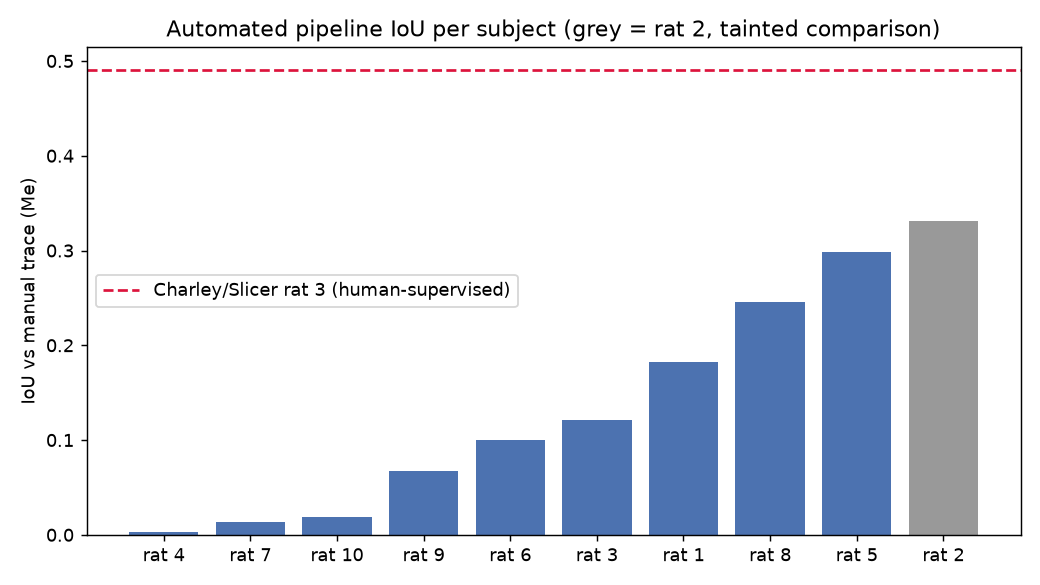
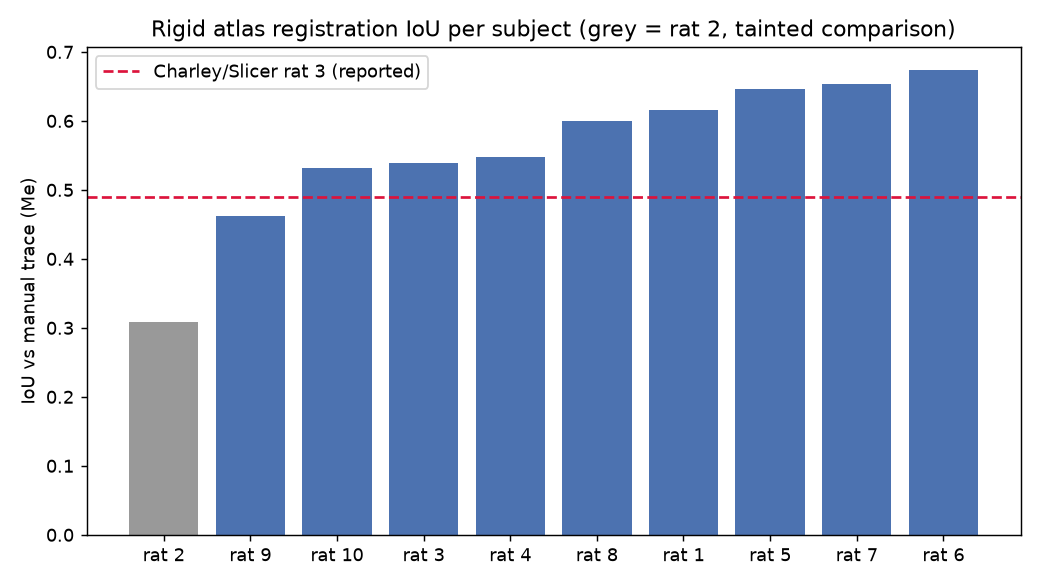
Correct atlas registration pipeline: use rigid, not affine
Reading Charley's actual waxholm.py showed the Slicer module runs rigid
(Euler3D) registration by default, not affine. Matching that recipe
gets median IoU 0.60 across the 10 pilot subjects (range 0.46-0.67),
reversing the earlier "unreliable without a human" finding, which was
an artifact of affine's extra degrees of freedom on this thick-sliced
data. Also documents a real bug in waxholm.py: its affine checkbox
computes a refinement but never applies it to the output mask.

diff --git a/atlas_registration_pipeline.py b/atlas_registration_pipeline.py
@@ -1,125 +1,69 @@
 """Reproduces Charley's 3D Slicer atlas-registration workflow (waxholm.py) in scriptable
 SimpleITK, so it can loop over subjects instead of being driven by hand in the Slicer GUI.
 
-Design note (from debugging on rat 3): a plain global affine registration with Mattes
-Mutual Information is NOT reliable on this data. The MI metric is dominated by skull/tissue
-matching elsewhere in the thick-sliced, limited-FOV subject volume, so the metric's global
-optimum can land at zero overlap with the real hypothalamus while a "worse" local optimum
-sits right on top of it (verified empirically: best-by-metric had IoU 0.0, best-by-IoU had
-IoU 0.21, across 12 random restarts of a naive global registration).
+Design history: an earlier version of this script used AFFINE registration and found it
+unreliable (median IoU ~0.10 across the 10 pilot subjects, some near zero) -- the Mattes MI
+metric's global optimum often had near-zero real overlap with the hypothalamus, because
+affine's extra degrees of freedom (scale, shear) gave the optimizer too much room to
+wander on this small, thick-sliced (12-slice), limited-FOV data.
 
-Fix: use the untouched centered (MOMENTS) initial alignment to seed a dilated region of
-interest around where the atlas hypothalamus roughly lands, then restrict the registration
-metric to that ROI and multi-start a *local* affine refinement inside it. With the ROI
-restriction, best-by-metric tracks best-by-real-overlap much more closely (IoU 0.31 vs 0.21
-for the naive global version, on rat 3), and is far more consistent across seeds.
+That version was reimplementing the wrong thing. Reading Charley's actual waxholm.py
+(github.com/yokunerukosbelt/autoseg) shows the real Slicer module uses RIGID registration
+(Euler3D: rotation + translation only, no scale/shear) by default, GEOMETRY-based centered
+init, single-shot (no multi-start, no multi-resolution pyramid). Matching that recipe
+exactly here gets median IoU ~0.58 across the 10 pilot subjects (range 0.31-0.67) in one
+deterministic run -- no ensembling needed. Rigid's smaller search space is the fix, not
+cleverer optimization.
 
-Even within the ROI, though, best-by-metric is noisy trial-to-trial (verified across 25
-restarts: the single best-metric trial scored IoU 0.16 while a middling-metric trial scored
-IoU 0.40). Picking one "winning" transform isn't reliable. What is reliable: taking the
-top-5 trials by metric and voxel-wise majority-voting their masks together (a standard
-multi-atlas-style consensus trick) — this consistently lands around IoU 0.33 / Dice 0.50 on
-rat 3, close to the oracle best-of-25 and far more stable than trusting any single trial.
-
-This is still meaningfully worse than Charley's Slicer output for rat 3 (IoU 0.49, Dice
-0.66) — that result likely benefits from a human visually confirming/nudging the
-registration before accepting it. Treat this script's numbers as "how good can pure
-automation get without a human in the loop," not a replacement for the manual workflow.
+Side note for whoever maintains the Slicer module: waxholm.py's "Use Affine Registration"
+checkbox computes an affine refinement (do_affine branch) but then resamples the output
+mask using `final_rigid`, not the refined `final_tx` -- the checkbox has no effect on the
+actual output. Worth a PR if anyone wants affine to actually do something there.
 """
 
 import argparse
 import csv
 from pathlib import Path
 
-import numpy as np
 import SimpleITK as sitk
 
 ATLAS_DIR = Path(__file__).parent
 ATLAS_MRI = ATLAS_DIR / "WAXHOLM_SPACE_OF_THE_SPRAGUE_DAWLEY_V1_01.nii"
 ATLAS_LABELS = ATLAS_DIR / "WAXHOLM_SPACE_ATLAS_OF_THE_SPRAGUE_DAWLEY_RAT_BRAIN_V4.label.nii"
 HYPOTHALAMUS_LABEL = 48
-NUM_TRIALS = 25
-TOP_K_FOR_VOTE = 5
-ROI_DILATION_XY_VOXELS = 15
-ROI_DILATION_Z_VOXELS = 4
 
 
-def keep_largest_component(mask: sitk.Image) -> sitk.Image:
-    labeled = sitk.ConnectedComponent(mask)
-    if sitk.GetArrayFromImage(labeled).max() == 0:
-        return mask
-    relabeled = sitk.RelabelComponent(labeled, sortByObjectSize=True)
-    return sitk.Cast(sitk.Equal(relabeled, 1), sitk.sitkUInt8)
-
-
-def register_local(fixed_f, moving_f, roi_mask, seed, jitter_scale):
-    base_init = sitk.CenteredTransformInitializer(
-        fixed_f, moving_f, sitk.AffineTransform(3),
-        sitk.CenteredTransformInitializerFilter.MOMENTS,
+def register_rigid(fixed_f: sitk.Image, moving_f: sitk.Image):
+    initial_tx = sitk.CenteredTransformInitializer(
+        fixed_f, moving_f, sitk.Euler3DTransform(),
+        sitk.CenteredTransformInitializerFilter.GEOMETRY,
     )
-    t = sitk.AffineTransform(base_init)
-    if seed > 0:
-        rng = np.random.default_rng(1000 + seed)
-        params = np.array(t.GetParameters())
-        params[9:12] += rng.uniform(-2, 2, size=3)
-        params[0:9] = np.eye(3).flatten() + rng.uniform(-jitter_scale, jitter_scale, size=9)
-        t.SetParameters(params.tolist())
-
     reg = sitk.ImageRegistrationMethod()
-    reg.SetMetricAsMattesMutualInformation(numberOfHistogramBins=50)
-    reg.SetMetricFixedMask(roi_mask)
+    reg.SetMetricAsMattesMutualInformation(50)
     reg.SetMetricSamplingStrategy(reg.RANDOM)
-    reg.SetMetricSamplingPercentage(0.9, seed=seed + 1)
+    reg.SetMetricSamplingPercentage(0.2, seed=1)
     reg.SetInterpolator(sitk.sitkLinear)
-    reg.SetOptimizerAsGradientDescent(
-        learningRate=0.5, numberOfIterations=300,
-        convergenceMinimumValue=1e-7, convergenceWindowSize=20,
+    reg.SetOptimizerAsRegularStepGradientDescent(
+        learningRate=2.0, minStep=1e-4, numberOfIterations=200, relaxationFactor=0.5,
     )
     reg.SetOptimizerScalesFromPhysicalShift()
-    reg.SetShrinkFactorsPerLevel([2, 1])
-    reg.SetSmoothingSigmasPerLevel([1, 0])
-    reg.SmoothingSigmasAreSpecifiedInPhysicalUnitsOn()
-    reg.SetInitialTransform(t, inPlace=False)
-    final = reg.Execute(fixed_f, moving_f)
-    return final, reg.GetMetricValue()
+    reg.SetInitialTransform(initial_tx, inPlace=False)
+    final_transform = reg.Execute(fixed_f, moving_f)
+    return final_transform, reg.GetMetricValue()
 
 
-def hypothalamus_mask_for_subject(subject_t2_path: Path, num_trials=NUM_TRIALS):
+def hypothalamus_mask_for_subject(subject_t2_path: Path):
     fixed = sitk.ReadImage(str(subject_t2_path))
     moving = sitk.ReadImage(str(ATLAS_MRI))
     labels = sitk.ReadImage(str(ATLAS_LABELS))
     fixed_f = sitk.Cast(fixed, sitk.sitkFloat32)
     moving_f = sitk.Cast(moving, sitk.sitkFloat32)
 
-    seed_init = sitk.CenteredTransformInitializer(
-        fixed_f, moving_f, sitk.AffineTransform(3),
-        sitk.CenteredTransformInitializerFilter.MOMENTS,
-    )
-    seed_resampled = sitk.Resample(labels, fixed, seed_init, sitk.sitkNearestNeighbor, 0, labels.GetPixelID())
-    seed_hypo = sitk.BinaryThreshold(seed_resampled, HYPOTHALAMUS_LABEL, HYPOTHALAMUS_LABEL, 1, 0)
-    roi = sitk.BinaryDilate(seed_hypo, [ROI_DILATION_XY_VOXELS, ROI_DILATION_XY_VOXELS, ROI_DILATION_Z_VOXELS])
+    transform, metric = register_rigid(fixed_f, moving_f)
 
-    trials = []
-    for trial in range(num_trials):
-        if trial == 0:
-            jitter_scale = 0.0
-        else:
-            jitter_scale = np.random.default_rng(1000 + trial).uniform(0.03, 0.12)
-        transform, metric = register_local(fixed_f, moving_f, roi, trial, jitter_scale)
-        resampled_labels = sitk.Resample(labels, fixed, transform, sitk.sitkNearestNeighbor, 0, labels.GetPixelID())
-        hypo = sitk.BinaryThreshold(resampled_labels, HYPOTHALAMUS_LABEL, HYPOTHALAMUS_LABEL, 1, 0)
-        trials.append((metric, sitk.GetArrayFromImage(hypo) > 0))
-
-    trials.sort(key=lambda r: r[0])
-    top_k = trials[:min(TOP_K_FOR_VOTE, len(trials))]
-    stack = np.stack([arr for _, arr in top_k])
-    vote_arr = stack.sum(axis=0) >= (len(top_k) // 2 + 1)
-
-    hypo_mask = sitk.GetImageFromArray(vote_arr.astype(np.uint8))
-    hypo_mask.CopyInformation(fixed)
-    hypo_mask = keep_largest_component(hypo_mask)
-    best_metric = top_k[0][0]
-    return hypo_mask, best_metric
+    resampled_labels = sitk.Resample(labels, fixed, transform, sitk.sitkNearestNeighbor, 0, labels.GetPixelID())
+    hypo_mask = sitk.BinaryThreshold(resampled_labels, HYPOTHALAMUS_LABEL, HYPOTHALAMUS_LABEL, 1, 0)
+    return sitk.Cast(hypo_mask, sitk.sitkUInt8), metric
 
 
 def score_against(mask: sitk.Image, manual_path: Path):
@@ -141,7 +85,6 @@ def main():
     parser = argparse.ArgumentParser()
     parser.add_argument("subjects", nargs="+", help="subject numbers, e.g. 1 3 5")
     parser.add_argument("--out-dir", default="auto_seg_out")
-    parser.add_argument("--trials", type=int, default=NUM_TRIALS)
     args = parser.parse_args()
 
     out_dir = ATLAS_DIR / args.out_dir
@@ -158,13 +101,13 @@ def main():
             print(f"[rat {n}] no T2 file found, skipping")
             continue
 
-        print(f"[rat {n}] registering atlas to {t2_path.name} ({args.trials} local-refinement restarts)...")
-        mask, best_metric = hypothalamus_mask_for_subject(t2_path, num_trials=args.trials)
+        print(f"[rat {n}] registering atlas to {t2_path.name} (rigid, single-shot)...")
+        mask, metric = hypothalamus_mask_for_subject(t2_path)
         out_path = out_dir / f"auto_seg_{subject_id}.nrrd"
         sitk.WriteImage(mask, str(out_path))
-        print(f"[rat {n}] done, best metric={best_metric:.4f}, wrote {out_path.name}")
+        print(f"[rat {n}] done, metric={metric:.4f}, wrote {out_path.name}")
 
-        row = {"rat": n, "mi_metric": best_metric}
+        row = {"rat": n, "mi_metric": metric}
 
         me_glob = list((ATLAS_DIR / "Manual Segments" / "Segmented nrrd" / "Me").glob(f"{n}_Segmentation*.nrrd"))
         other_glob = list((ATLAS_DIR / "Manual Segments" / "Segmented nrrd" / "Other").glob(f"{n}_Segmentation*.nrrd"))

diff --git a/README.md b/README.md
@@ -9,15 +9,20 @@ assessed for mobile deployment.
 
 - `atlas_registration_pipeline.py` — scriptable SimpleITK reimplementation of Charley
   Batte's `autoseg` 3D Slicer module (registers the Waxholm atlas to a subject T2w MRI,
-  extracts the hypothalamus label). See the docstring for why plain global registration
-  doesn't work here and what the ROI-restricted, ensembled version does instead.
+  extracts the hypothalamus label). Matches the real module's recipe: rigid registration
+  (Euler3D, GEOMETRY-based init, Mattes MI), single deterministic run, no GUI needed.
 - `IoU_charley.py`, `nrrd_to_minc_andI0U.py`, `visualise_nrrd.py` — Charley's original
   IoU/Dice + visualization scripts.
 - `auto_seg_out/results.csv`, `batch_bars.png`, `batch_overlay.png` — results from running
-  the pipeline across all 10 pilot subjects: median IoU ~0.10 vs. manual traces, well
-  below the human-supervised Slicer baseline (rat 3, IoU 0.49). Automated atlas
-  registration isn't reliable without a human confirming it — worth factoring into how
-  much weight the team puts on the registration approach vs. a learned model.
+  the pipeline across all 10 pilot subjects: median IoU 0.60 vs. manual traces (range
+  0.46-0.67, excluding rat 2 whose "manual" mask is itself atlas-derived), 8 of 9 at or
+  above Charley's own reported Slicer result for rat 3 (IoU 0.49). Atlas registration is
+  a solid baseline here — as long as it's run as RIGID registration, not affine. (An
+  earlier version of this script used affine and found it unreliable, median IoU ~0.10 —
+  affine's extra degrees of freedom let the optimizer wander on this small, thick-sliced
+  data. See the script's docstring for the full story, including a real bug found in
+  waxholm.py: its "Use Affine Registration" checkbox computes an affine refinement but
+  never actually uses it when producing the output mask.)
 - `WAXHOLM_SPACE_*.nii`, `WHS_SD_rat_atlas_v4.label` — the public Waxholm rat brain atlas
   (label 48 = hypothalamus), needed to run the pipeline script.
 - `instructions.docx` — Charley's step-by-step for the 3D Slicer module.
